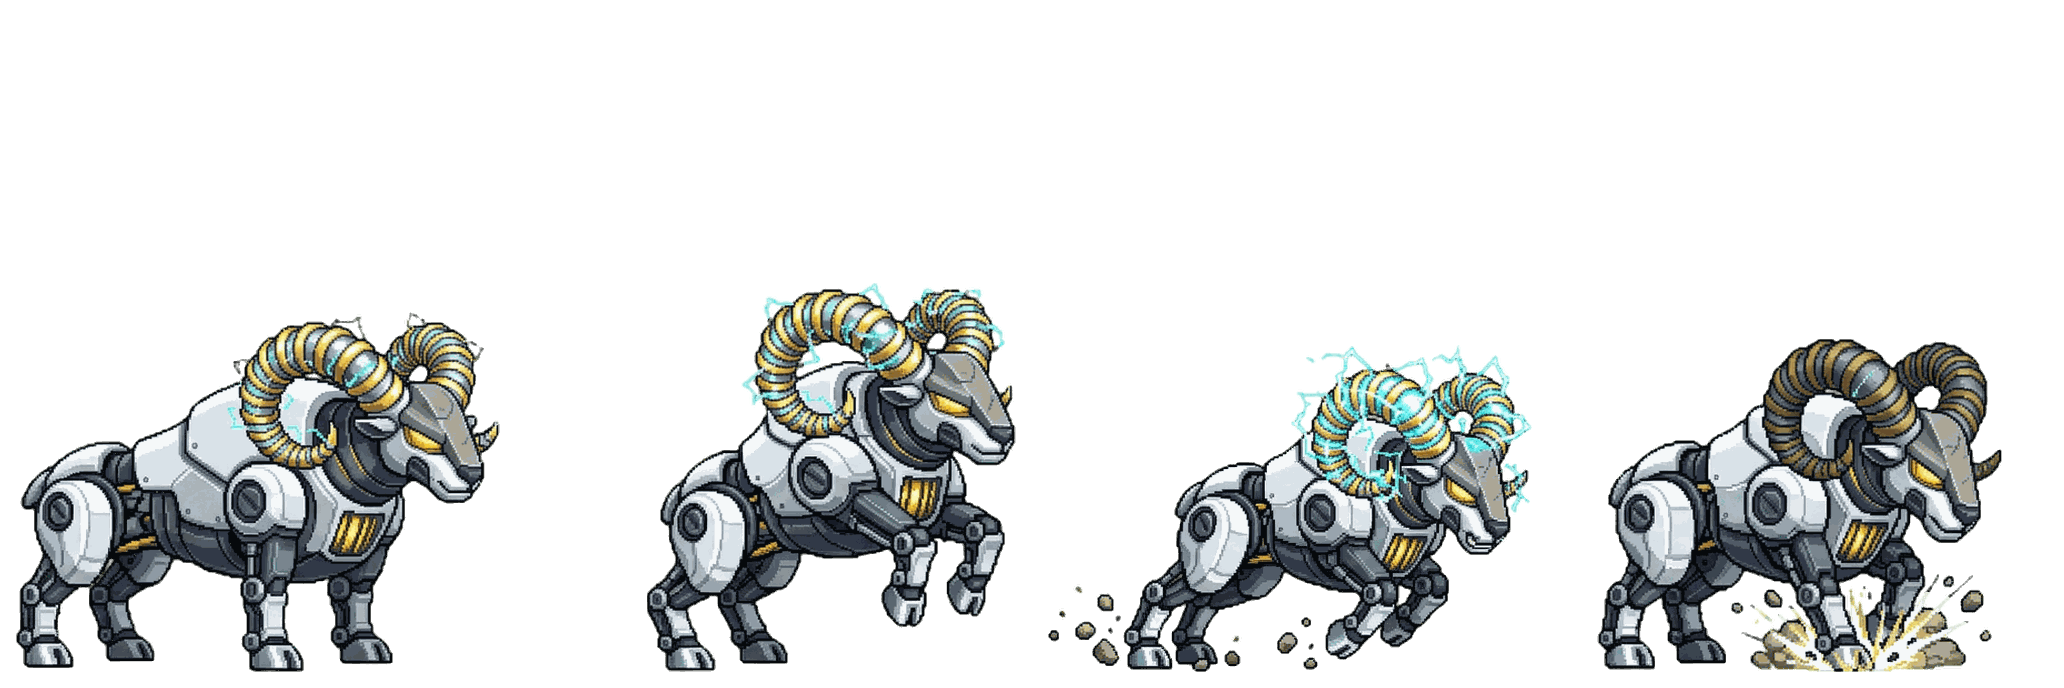
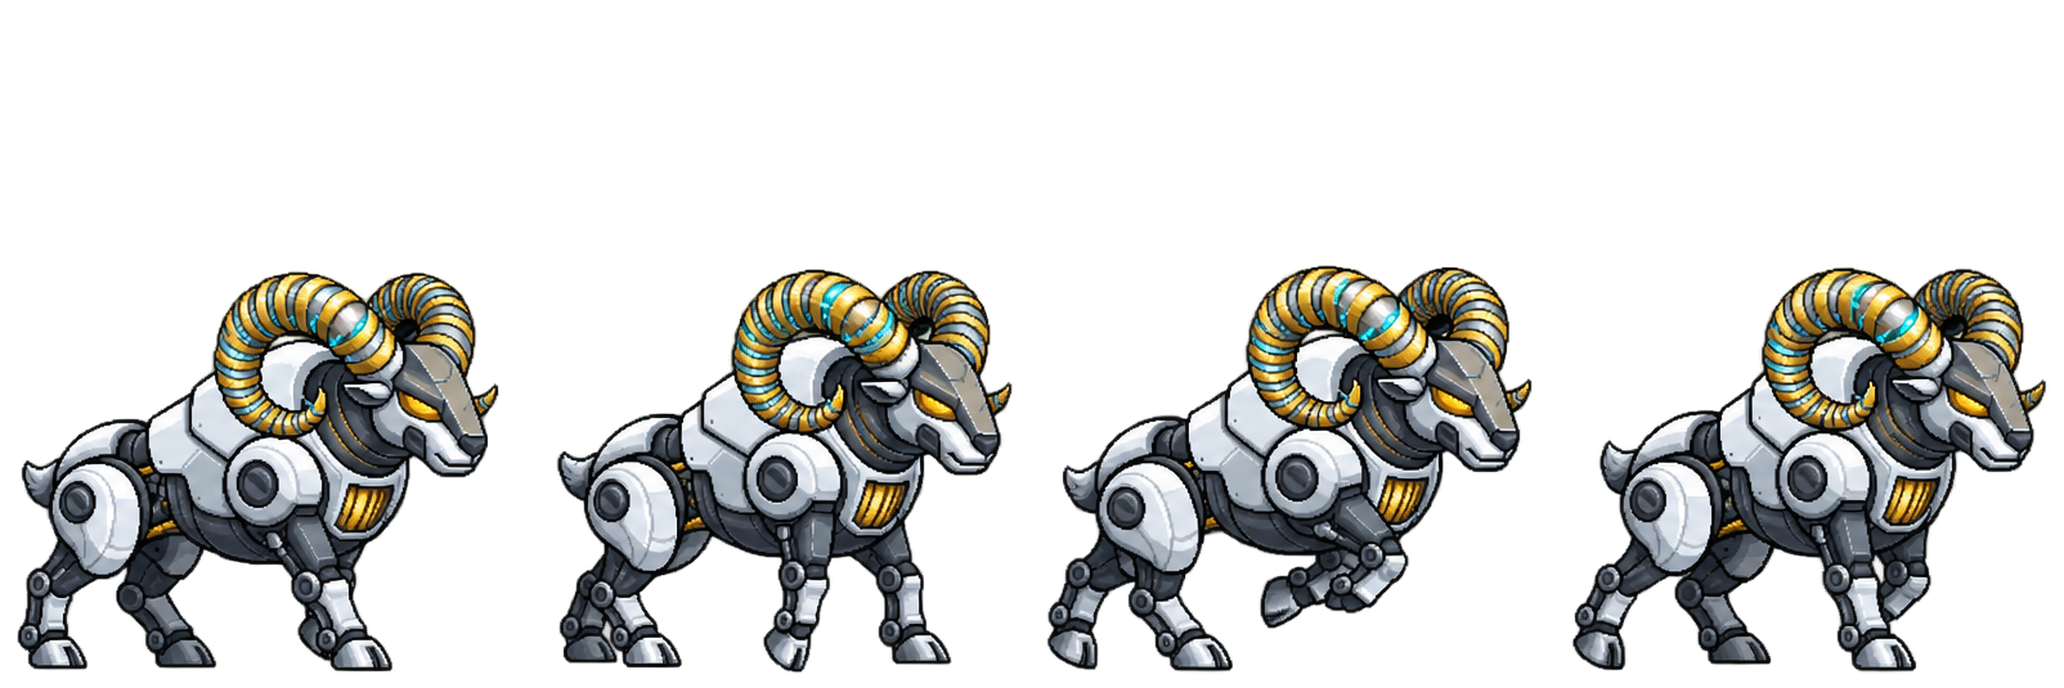
Round 301: the Thunderhorn Ram walks (#81)
The owner's eight-frame walk for the Sky Isles' Thunderhorn Ram: frames 1, 3, 5
and 7 cut with one shared window, at .8s. SPRITE_VERSION 301.

Claude-Session: https://claude.ai/code/session_01XB2RMCaJ1aVVtBjSNk3FhS

diff --git a/index.html b/index.html
@@ -553,7 +553,7 @@ if(localStorage.getItem(SAVE_KEY))$('resumeBtn').classList.remove('hidden');
 addEventListener('resize',()=>{fitWorld();fitMap();renderTalentConnectors()});fitWorld();
 requestAnimationFrame(loop);
 </script>
-<script src="assets/elaris-wildlife.js?v=round300"></script>
+<script src="assets/elaris-wildlife.js?v=round301"></script>
 <script src="assets/solaris-data.js?v=round232"></script>
 <script src="assets/expansion.js?v=round291"></script>
 <script src="assets/encounter-depth.js?v=round280"></script>
@@ -576,7 +576,7 @@ requestAnimationFrame(loop);
 <script src="assets/wilds-data.js?v=round232"></script>
 <script src="assets/vespera-data.js?v=round232"></script>
 <script src="assets/chronospire-data.js?v=round232"></script>
-<script src="assets/tile-worlds.js?v=round299"></script>
+<script src="assets/tile-worlds.js?v=round301"></script>
 <script src="assets/world-cards.js?v=round210"></script>
 <script src="assets/world-mechanics.js?v=round278"></script>
 <script src="assets/stagger.js?v=round189"></script>

diff --git a/assets/tile-worlds.js b/assets/tile-worlds.js
@@ -24,7 +24,7 @@ Object.assign(WILDLIFE_ART, {
   skyDrakeArt:  { name: 'Sunfeather Drake', sheet: 'sky/sunfeather-drake', cycle: '.8s' },
   skyWispArt:   { name: 'Rain Drone', sheet: 'sky/rain-drone', cycle: '.8s' }, // Round 222: replaces the Cloud Wisp; Round 299: the owner's eight-frame hover
   skyHarpyArt:  { name: 'Gale Harpy', sheet: 'sky/gale-harpy', cycle: '.8s' }, // Round 300: the owner's eight-frame flight
-  skyRamArt:    { name: 'Thunderhorn Ram', sheet: 'sky/thunderhorn-ram', cycle: '1.1s' },
+  skyRamArt:    { name: 'Thunderhorn Ram', sheet: 'sky/thunderhorn-ram', cycle: '.8s' }, // Round 301: the owner's eight-frame walk
   stormbellArt: { name: 'The Stormbell Warden', sheet: 'sky/stormbell-warden', cycle: '1.4s' },
   matriarchArt: { name: 'The Featherfall Matriarch', sheet: 'sky/featherfall-matriarch', cycle: '1.4s' },
   zenithRocArt: { name: 'The Zenith Roc', sheet: 'sky/zenith-roc', cycle: '1.2s', big: true }

diff --git a/assets/elaris-wildlife.js b/assets/elaris-wildlife.js
@@ -45,7 +45,7 @@ const cityMonsterArt=monsterArt;
 // Round 196: a sheet name with a folder ('sky/zenith-roc') is read from assets/monsters/<folder>/;
 // big:true draws it in the larger boss box.
 // Round 200: bump SPRITE_VERSION when sheets are re-cut, so browsers fetch the new images.
-const SPRITE_VERSION='300';
+const SPRITE_VERSION='301';
 function wildlifeSheetUrl(sheet){return 'assets/monsters/'+(sheet.includes('/')?sheet:'elaris/'+sheet)+'.png?v='+SPRITE_VERSION}
 monsterArt=function(id){const animal=ELARIS_WILDLIFE[id]||WILDLIFE_ART[id];if(!animal)return cityMonsterArt(id);return '<span class="monster-sprite wildlife-sprite'+(animal.big?' bloom-tyrant':'')+'" role="img" aria-label="'+animal.name+'" style="background-image:url('+wildlifeSheetUrl(animal.sheet)+');--wildlife-cycle:'+animal.cycle+'"></span>'};
 // Round 249: a boss node's sprite box was square (142px, sized for Neon Aftermath's boss pictures), which

diff --git a/CHANGES.md b/CHANGES.md
@@ -3496,6 +3496,17 @@ Playtest of Neon Aftermath's three relics (Moon Lens 5,4; Ember Sigil 5,7; Briar
 - Talent descriptions list the per-rank values. Tests updated: round76, chronospire,
   talent-matrix, card-variety, plating-armor.
 
+## Round 301: the Thunderhorn Ram walks
+
+- The owner sent an eight-frame walk for the Sky Isles' Thunderhorn Ram (`skyRam`), a mechanical ram with articulated
+  legs and steady curled horns. The source strip is `assets/monsters/sky/src/thunderhorn-ram-walk8.png`.
+- Frames 1, 3, 5 and 7 are cut with one shared window, as in Rounds 299 and 300, so the body and horns stay still while
+  the legs step. The hooves sit near the frame's bottom. The result replaces `assets/monsters/sky/thunderhorn-ram.png`
+  and is padded.
+- The cycle is .8s (the owner's 800ms), down from 1.1s.
+- `SPRITE_VERSION` 301. New `tests/thunderhorn-ram.test.cjs`. Checked in Chromium on the map (paired with a Gale
+  Harpy) and in battle.
+
 ## Round 300: the Gale Harpy flies
 
 - The owner sent an eight-frame flight for the Sky Isles' Gale Harpy (`skyHarpy`): two articulated wing-arms, tucked

diff --git a/CLAUDE.md b/CLAUDE.md
@@ -4,7 +4,7 @@ Aethercede is a browser card-battler/exploration game in vanilla JS with no
 build step. Open `index.html` directly. `compendium.html` is the card
 gallery; `arena.html` is a standalone prototype and is left untouched.
 
-**Read `CHANGES.md` first.** Every round of work (Round 1 to Round 300) is
+**Read `CHANGES.md` first.** Every round of work (Round 1 to Round 301) is
 logged there with its reasoning. Add a new `## Round N:` entry for each
 change set.
 
